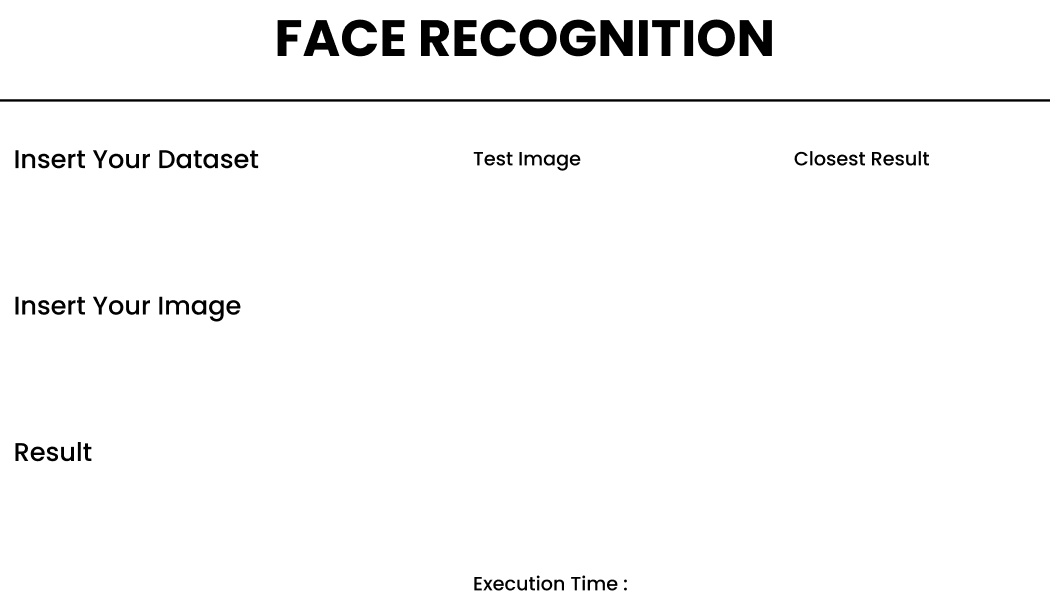
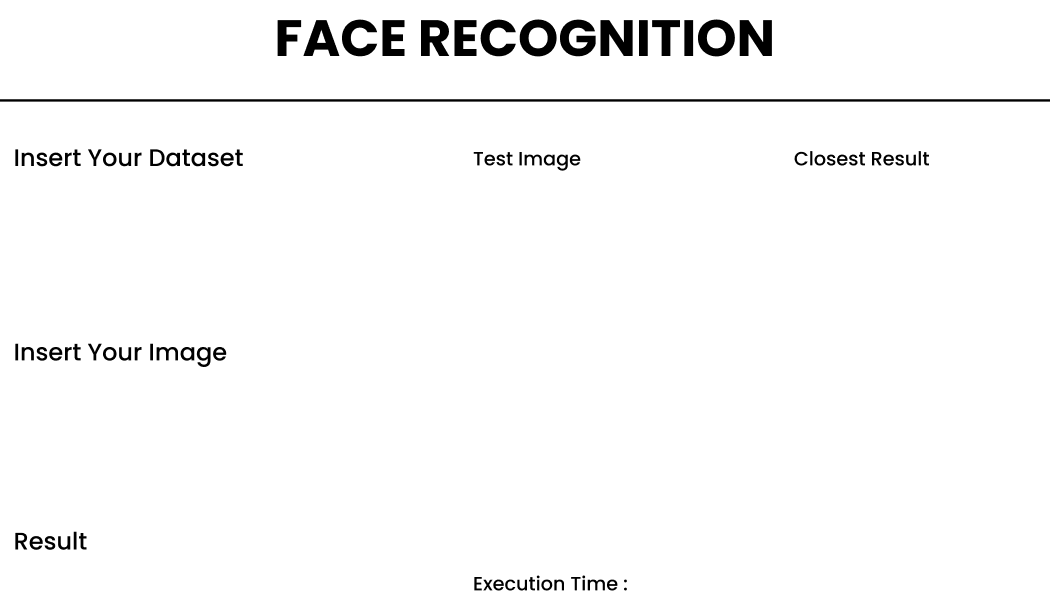
add webcam, fix ui + execution time

diff --git a/src/window.py b/src/window.py
@@ -9,12 +9,15 @@ import utils.eigen_value as eig
 from tkinter import *
 from PIL import ImageTk, Image
 from tkinter import filedialog
+from datetime import datetime
+import time
+import webcam
 
 
 window = Tk()
 
 window.geometry("1200x700")
-window.configure(bg="#e6bdff")
+window.configure(bg="#eccdff")
 global foldername
 global result, res_name, mean, e, y
 fileChosen = False
@@ -27,35 +30,58 @@ seconds = 0
 ms = 0
 
 
-def update_stopwatch():
-    global seconds
-    global ms
-    if ms < 59:
-        ms += 1
-    elif ms == 59:
-        ms = 0
-        seconds += 1
-
-    # Update Label.
-    time_string = "{:02d}:{:02d}".format(seconds, ms)
+def getTime(start):
+    stop = datetime.now().timestamp()
+    duration = round(stop-start, 2)
+    print("duration =", duration)
     canvas.itemconfig(
         time_label,
-        text=time_string
+        text=duration
     )
 
-    window.after(10, update_stopwatch)  # Call again in 10 millisecs.
+    canvas.itemconfig(
+        process,
+        text=""
+    )
+
+
+# def update_stopwatch():
+#     global seconds
+#     global ms
+#     if ms < 59:
+#         ms += 1
+#     elif ms == 59:
+#         ms = 0
+#         seconds += 1
+#     # Update Label.
+#     time_string = "{:02d}:{:02d}".format(seconds, ms)
+#     canvas.itemconfig(
+#         time_label,
+#         text=time_string
+#     )
+#     window.after(10, update_stopwatch)  # Call again in 10 millisecs.
+
+def changeProcessText():
+    global filename, foldername
+
+    if (foldername != '' and filename != ''):
+        canvas.itemconfig(
+            process,
+            text="Processing..."
+        )
+
+        startProcess()
 
 
 def startProcess():
-    global running
-
-    print('Start process...')
-    # global myImage
-    # global fileChosen
     global mean, e, y, res_name
     global filename, foldername
+
     if (foldername != '' and filename != ''):
-        update_stopwatch()
+        start = datetime.now().timestamp()
+        print('Start process...')
+
+        # update_stopwatch()
         result, res_name = main2.batch_extractor(foldername)
         print("RESULT")
         print(result.shape)
@@ -65,15 +91,6 @@ def startProcess():
         print("MEAN MATRIX")
         print(mean)
         print(mean.shape)
-        # meanFace = mean.reshape((256, 256))
-        # meanFace = np.array(meanFace, dtype=np.uint8)
-        # print(meanFace)
-        # cv.imshow('displaymywindows', meanFace)
-        # cv.waitKey(0)
-        # cv.destroyAllWindows()
-        # normalizedImg = np.zeros((255, 255))
-        # normalizedImg = cv.normalize(
-        #     eigenFace,  normalizedImg, 0, 255, cv.NORM_MINMAX)
 
         print("\n\n")
 
@@ -111,6 +128,7 @@ def startProcess():
         path = main2.test_image(mean, e, y, res_name, filename)
 
         openClosestResult(path)
+        getTime(start)
 
 
 def openFolder():
@@ -169,6 +187,36 @@ def openFile():
     # openClosestResult(path)
 
 
+def openCamera():
+    global myImage
+    global filename
+    webcam.captureWebcam()
+
+    filename = 'image_from_webcam.jpg'
+    img = Image.open(f'../test/foto/{filename}')
+    myImage = ImageTk.PhotoImage(img)
+
+    new_width = 256
+    new_height = int(new_width * myImage.height() / myImage.width())
+
+    if (new_height > 275):
+        new_height = 275
+        new_width = int(new_width * myImage.width() / myImage.height())
+
+    resized = img.resize((new_width, new_height), Image.ANTIALIAS)
+    myImage = ImageTk.PhotoImage(resized)
+
+    if (filename != ''):
+        canvas.itemconfig(
+            cf,
+            text=filename
+        )
+
+    testImage = canvas.create_image(
+        675, 360,
+        image=myImage)
+
+
 def openClosestResult(path):
     global closestRes
     global foldername
@@ -190,10 +238,16 @@ def openClosestResult(path):
         995, 360,
         image=closestRes)
 
+    if (path != ''):
+        canvas.itemconfig(
+            result,
+            text=path
+        )
+
 
 canvas = Canvas(
     window,
-    bg="#e6bdff",
+    bg="#eccdff",
     height=700,
     width=1200,
     bd=0,
@@ -201,11 +255,6 @@ canvas = Canvas(
     relief="ridge")
 canvas.place(x=0, y=0)
 
-cf = canvas.create_text(
-    354.5, 401.5,
-    text="No File Chosen",
-    fill="#540097",
-    font=("Poppins-Regular", int(16)))
 
 img0 = PhotoImage(file=f"GUI/img0.png")
 b0 = Button(
@@ -214,11 +263,11 @@ b0 = Button(
     highlightthickness=0,
     command=openFolder,
     relief="flat")
-
 b0.place(
-    x=88, y=232,
-    width=177,
-    height=45)
+    x=85, y=233,
+    width=149,
+    height=41)
+
 
 img1 = PhotoImage(file=f"GUI/img1.png")
 b1 = Button(
@@ -227,28 +276,47 @@ b1 = Button(
     highlightthickness=0,
     command=openFile,
     relief="flat")
-
 b1.place(
-    x=88, y=379,
-    width=177,
-    height=45)
+    x=85, y=428,
+    width=149,
+    height=41)
+
+
+img3 = PhotoImage(file=f"GUI/img3.png")
+b3 = Button(
+    image=img3,
+    borderwidth=0,
+    highlightthickness=0,
+    command=changeProcessText,
+    relief="flat")
+b3.place(
+    x=543, y=560,
+    width=149,
+    height=41)
+
 
 img2 = PhotoImage(file=f"GUI/img2.png")
 b2 = Button(
     image=img2,
     borderwidth=0,
     highlightthickness=0,
-    command=startProcess,
+    command=openCamera,
     relief="flat")
-
 b2.place(
-    x=548, y=544,
-    width=177,
-    height=45)
+    x=347, y=385,
+    width=106,
+    height=29)
 
-canvas.create_text(
-    115, 529.5,
+
+result = canvas.create_text(
+    115, 620.5,
     text="None",
+    fill="#540097",
+    font=("Poppins-Regular", int(16)))
+
+process = canvas.create_text(
+    770, 580,
+    text="",
     fill="#540097",
     font=("Poppins-Regular", int(16)))
 
@@ -258,8 +326,14 @@ time_label = canvas.create_text(
     fill="#540097",
     font=("Poppins-Regular", int(16)))
 
+cf = canvas.create_text(
+    160.0, 493.0,
+    text="No File Chosen",
+    fill="#540097",
+    font=("Poppins-Regular", int(16)))
+
 cfo = canvas.create_text(
-    368.5, 254.5,
+    175, 298.0,
     text="No Folder Chosen",
     fill="#540097",
     font=("Poppins-Regular", int(16)))
@@ -270,4 +344,5 @@ background = canvas.create_image(
     image=background_img)
 
 # window.resizable(False, False)
+window.title("Face Recognition")
 window.mainloop()

diff --git a/src/webcam.py b/src/webcam.py
@@ -1,0 +1,24 @@
+import cv2
+import os
+
+
+def captureWebcam():
+    cam = cv2.VideoCapture(0)
+    cv2.namedWindow("Webcam")
+
+    while True:
+        ret, frame = cam.read()
+        if not ret:
+            print("failed to grab frame")
+            break
+        cv2.imshow("Webcam", frame)
+
+        k = cv2.waitKey(1)
+        if k % 256 == 32:
+            # SPACE pressed
+            img_name = f"image_from_webcam.jpg"
+            cv2.imwrite(os.path.join('../test/foto/', img_name), frame)
+            break
+
+    cam.release()
+    cv2.destroyAllWindows()
